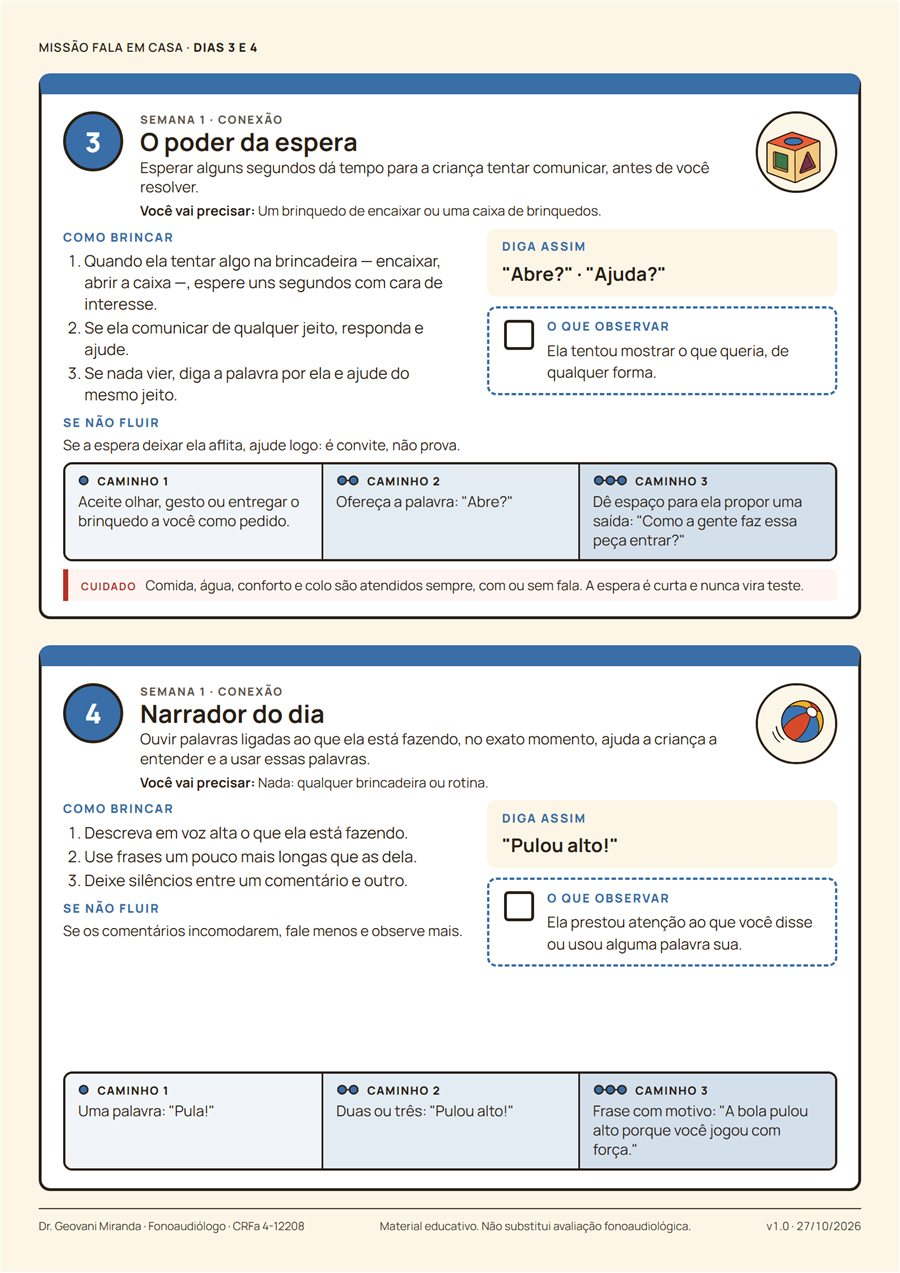
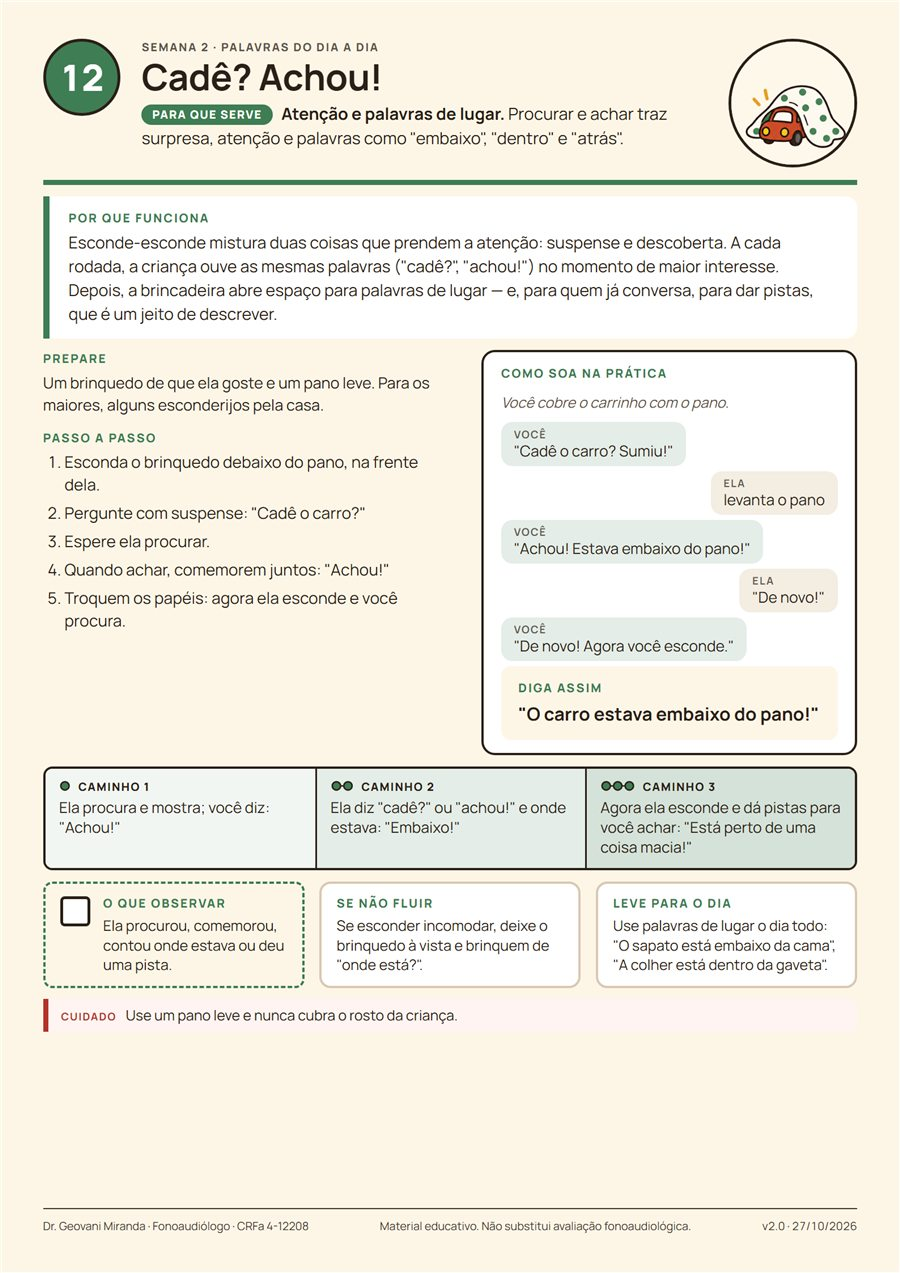
Página atualizada para a Missão v2.0 (41 páginas)

diff --git a/index.html b/index.html
@@ -260,9 +260,9 @@
   <div class="miolo duas-col">
     <div>
       <p class="eyebrow">O que você recebe</p>
-      <h2>Um guia ilustrado de 26 páginas.</h2>
+      <h2>Um guia ilustrado de 41 páginas.</h2>
       <ul class="lista-recebe">
-        <li>30 missões ilustradas, cada uma com três caminhos</li>
+        <li>30 missões ilustradas, uma por página: para que serve, por que funciona, passo a passo e um exemplo de conversa</li>
         <li>"Por onde começo?" e "E se não funcionar?"</li>
         <li>Retrato inicial e final da comunicação — sem nota e sem comparar com outras crianças</li>
         <li>Trilha dos 30 dias para pintar, medalhas de participação e certificado</li>
